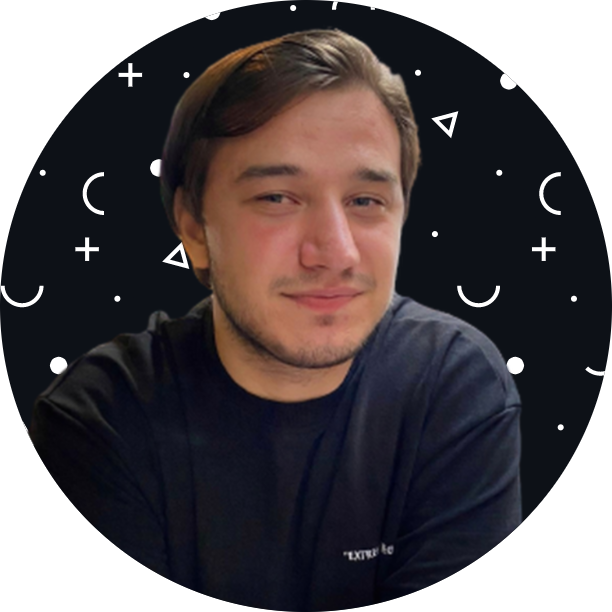
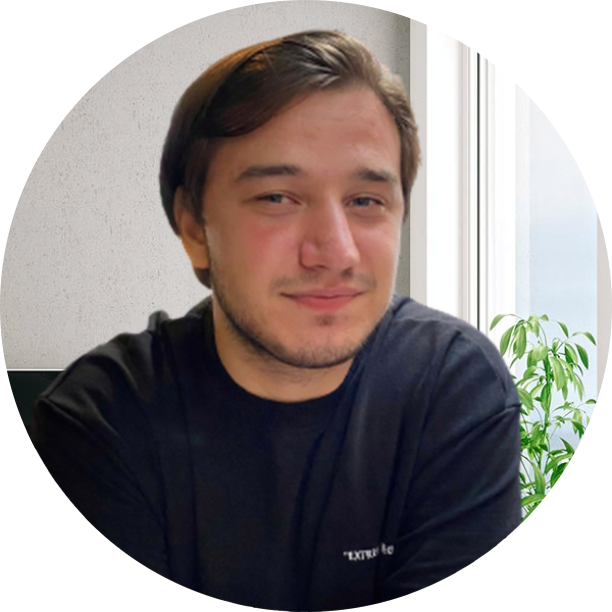
Change BG Image

diff --git a/EN.html b/EN.html
@@ -180,7 +180,7 @@
 									<div class="portfolio-thumb">
 										<img src="images/kodluyoruz1.png" class="fluid-img" alt="portfolio img">
 										<div class="portfolio-overlay">
-											<h3 class="portfolio-item-title"><a class="portfolio-link" href="https://verified.cv/en/verify/85787244422001">Eğitim Sertifikası</a></h3>
+											<h3 class="portfolio-item-title"><a class="portfolio-link" href="https://verified.cv/en/verify/85787244422001">Certificate of Education</a></h3>
 											<p>Trendyol Mobil Android Geliştirme Bootcamp</p>
 										</div>
 									</div>
@@ -189,7 +189,7 @@
 									<div class="portfolio-thumb">
 										<img src="images/patika1.jfif" class="fluid-img" alt="portfolio img">
 										<div class="portfolio-overlay">
-											<h3 class="portfolio-item-title"><a class="portfolio-link" href="https://app.patika.dev/sertifikalar/P8sH9mb">Eğitim Sertifikası</a></h3>
+											<h3 class="portfolio-item-title"><a class="portfolio-link" href="https://app.patika.dev/sertifikalar/P8sH9mb">Certificate of Education</a></h3>
 											<p>Başlangıç Seviye Frontend Web Development Patikası</p>
 										</div>
 									</div>
@@ -198,7 +198,7 @@
 									<div class="portfolio-thumb">
 										<img src="images/CSS.png" class="fluid-img" alt="portfolio img">
 										<div class="portfolio-overlay">
-											<h3 class="portfolio-item-title"><a class="portfolio-link" href="images/CSS.pdf">Katılım Sertifikası</a></h3>
+											<h3 class="portfolio-item-title"><a class="portfolio-link" href="images/CSS.pdf">Certificate of Participation</a></h3>
 											<p>CSS3</p>
 										</div>
 									</div>
@@ -207,7 +207,7 @@
 									<div class="portfolio-thumb">
 										<img src="images/HTML5.png" class="fluid-img" alt="portfolio img">
 										<div class="portfolio-overlay">
-											<h3 class="portfolio-item-title"><a class="portfolio-link" href="images/HTML5.pdf">Katılım Sertifikası</a></h3>
+											<h3 class="portfolio-item-title"><a class="portfolio-link" href="images/HTML5.pdf">Certificate of Participation</a></h3>
 											<p>HTML5</p>
 										</div>
 									</div>
@@ -216,7 +216,7 @@
 									<div class="portfolio-thumb">
 										<img src="images/img3.PNG" class="fluid-img" alt="portfolio img">
 										<div class="portfolio-overlay">
-											<h3 class="portfolio-item-title"><a class="portfolio-link" href="https://verified.cv/tr/verify/590615855915">Katılım Sertifikası</a></h3>
+											<h3 class="portfolio-item-title"><a class="portfolio-link" href="https://verified.cv/tr/verify/590615855915">Certificate of Participation</a></h3>
 											<p>Digital Career Summit - 2</p>
 										</div>
 									</div>
@@ -225,7 +225,7 @@
 									<div class="portfolio-thumb">
 										<img src="images/img2.PNG" class="fluid-img" alt="portfolio img">
 										<div class="portfolio-overlay">
-											<h3 class="portfolio-item-title"><a class="portfolio-link" href="/images/img2.png">Başarı Sertifikası</a></h3>
+											<h3 class="portfolio-item-title"><a class="portfolio-link" href="/images/img2.png">Certificate of Achievement</a></h3>
 											<p>Teknoloji Yeterlilik Sertifikası</p>
 										</div>
 									</div>

diff --git a/css/templatemo-style.css b/css/templatemo-style.css
@@ -30,8 +30,8 @@ hr {
 .navbar-default {
   background: #161b22;
   border: none;
-  -webkit-box-shadow: 0 2px 8px 0 rgba(50, 50, 50, 0.08);
-          box-shadow: 0 2px 8px 0 rgba(50, 50, 50, 0.08);
+  -webkit-box-shadow: 0 2px 8px 0 rgba(124, 124, 124, 0.08);
+          box-shadow: 0 2px 8px 0 rgba(124, 124, 124, 0.08);
   margin: 0;
   padding: 0;
 }
@@ -79,7 +79,7 @@ hr {
   background-size: cover;
   background-attachment: fixed;
   background-position: center center;
-  color: #5f5f5f;
+  color: #F5F2E7;
   display: -webkit-box;
   display: -webkit-flex;
   display: -ms-flexbox;
